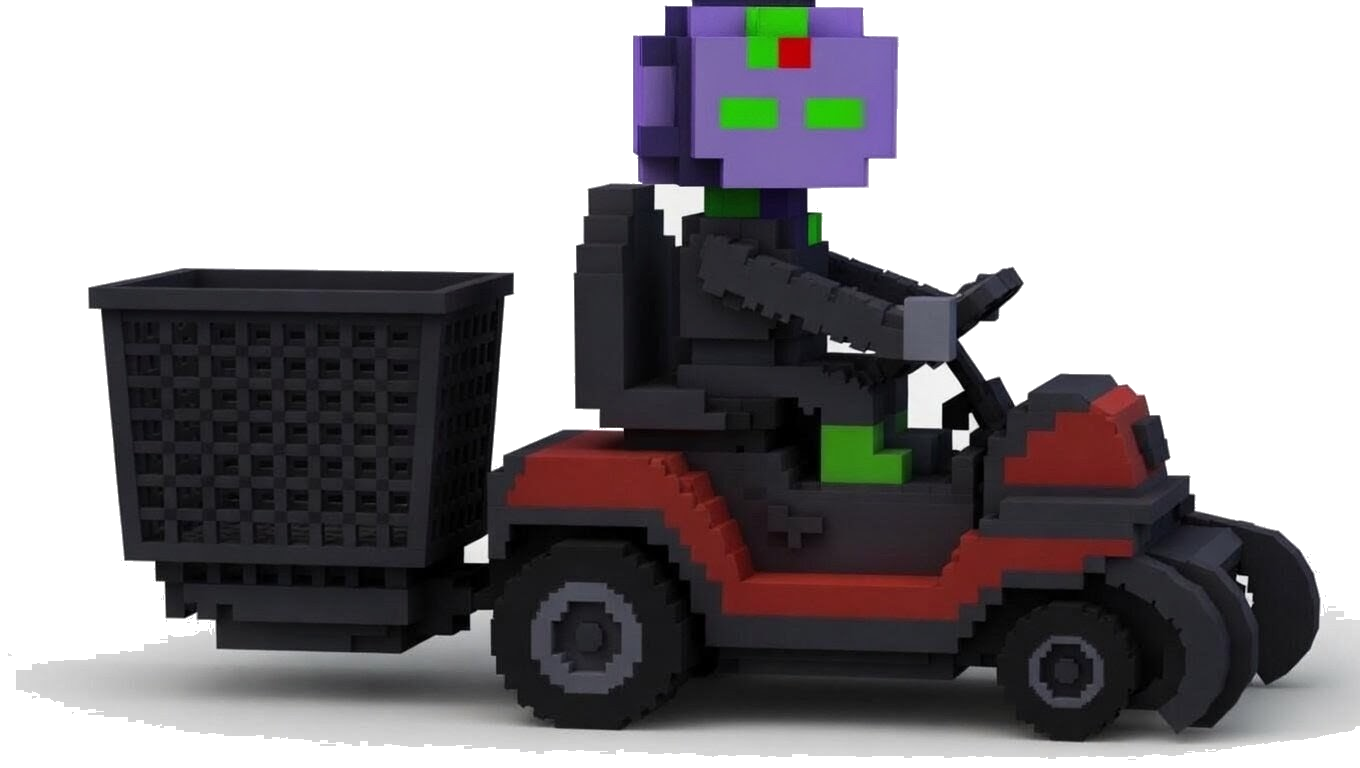
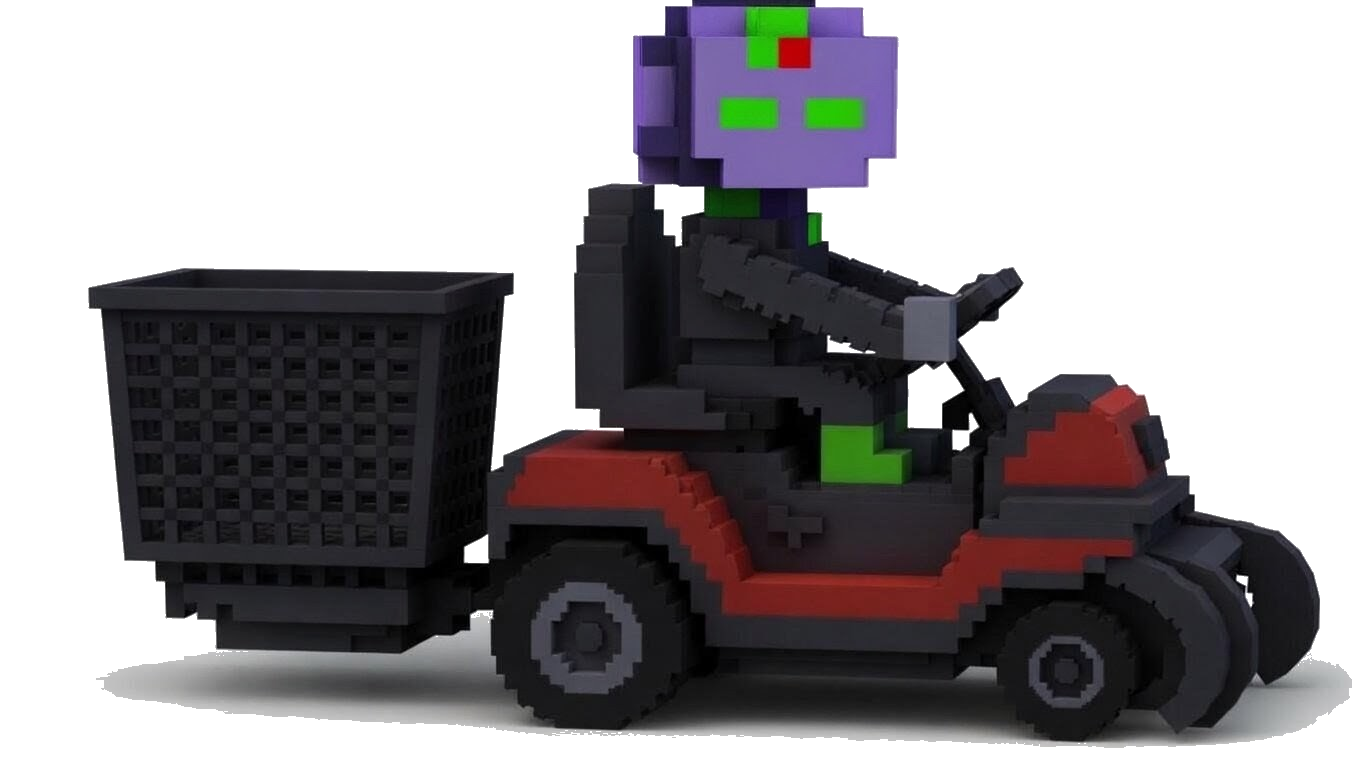
fix(v2.37 OTA): MonkeMower — kill ground-shadow oval, 15% smaller, mud-hut pile
Three issues from in-app review:

1. White elongated ground-shadow oval was bleeding through under the mower
   even after the corner flood-fill (it's a soft gradient that the fill
   threshold couldn't follow). Added a second pass that zeros any pixel
   with luma > 195 AND R≈G≈B (neutral light gray), which catches the
   oval remnants without touching the saturated mower body.

2. Mower 15% smaller — MOWER_HEIGHT 200 → 170. Width follows aspect; all
   pile/intake/crate fractions scale automatically.

3. Pile redesigned. Was a stepped pyramid where rows 1-2 were poking
   through the basket walls. Now:
   - Whole pile lifted 2 layer-heights so the base sits cleanly above
     the rim (slot.y range was 0.08-0.95, now -0.08 to 0.58).
   - Less pyramid, more "mud hut" / "dirt piled in a dump truck."
     Heavier overlap, smaller bananas (18-24 vs 24-30), 21 slots instead
     of 15, with positions deliberately scattered/jittered so individual
     bananas blur into a heap. You can no longer count them.
   - Curved mound profile rather than stepped layers — base is widest
     (7 bananas), middle layers (6, 4, 3), apex (1).

Changed region(s): [[0.0, 0.8125, 0.9265, 1.0], [0.9265, 0.7812, 1.0, 0.9688], [0.3397, 0.6875, 0.3706, 0.75]]

diff --git a/src/components/worlds/MonkeMower.tsx b/src/components/worlds/MonkeMower.tsx
@@ -41,7 +41,8 @@ const { width: SCREEN_W } = Dimensions.get("window");
 // ── Asset geometry ─────────────────────────────────────────────────────────
 // Native asset is 1360×768 (≈1.77:1). Mower faces RIGHT; basket trails on
 // the LEFT. Driving L→R, the deck on the right is the leading edge.
-const MOWER_HEIGHT = 200;
+// Display height reduced 15% per design pass — was 200, now 170.
+const MOWER_HEIGHT = 170;
 const MOWER_ASPECT = 1360 / 768;
 const MOWER_WIDTH = MOWER_HEIGHT * MOWER_ASPECT;
 // New asset has wheels at the asset's bottom edge — negligible padding.
@@ -82,40 +83,50 @@ const BOUNCE_FREQUENCY = 0.04;      // higher = more bounces per pixel of drive
 const INTAKE_IDLE_X = -100_000;
 
 // ── Crate fill positions ───────────────────────────────────────────────────
-// Tight makeshift pyramid — bananas overlap with no gaps between them, like
-// a real fruit pile mounding above the basket rim. Each row offset and one
-// banana shorter than the row below, building toward an apex.
+// Tight MOUND — think mud hut / dirt piled in the back of a dump truck.
+// NOT a clean pyramid. Bananas overlap heavily (you shouldn't be able to
+// count them), positions are scattered across the basket interior with
+// random-ish jitter, and the overall shape is a low rounded heap rather
+// than a stepped pyramid.
+//
+// All slots positioned ABOVE the basket rim — the entire pyramid was lifted
+// 2 rows from the previous version (per design pass) so the bottom of the
+// pile no longer pokes through the basket walls.
 //
 // Coords:
-//  - x: fraction of CRATE_W_PCT (0=left edge of basket interior, 1=right)
-//  - y: fraction of CRATE_H_PCT (1.0=at the rim, decreasing = higher mound)
-//  - size: 24-30 px to match in-pile banana sizes (user wanted "same size
-//    in the basket as on the screen")
-//
-// Slot ORDER matters: bottom row first (filled as visible count goes 1, 2,
-// 3, 4, 5...), stacking up to apex. Pile grows visibly with each suck.
+//  - x: fraction of CRATE_W_PCT (0=left edge of basket, 1=right)
+//  - y: fraction of CRATE_H_PCT (smaller y = higher above the rim).
+//    Negative y values render ABOVE the asset's top edge — fine, those
+//    bananas just sit higher on the mound.
+//  - size: 18-24 px — smaller than pile so the heap reads as packed
+//    debris, not individual fruit. Heavy overlap obscures count.
 const CRATE_BANANA_SLOTS = [
-  // Row 1 — 5 bananas at the rim, tightly overlapping (centers ~17% apart,
-  // size 28 → ~10px overlap between neighbors)
-  { x: 0.10, y: 0.92, rot: -10, size: 28 },
-  { x: 0.30, y: 0.95, rot:   8, size: 28 },
-  { x: 0.50, y: 0.92, rot: -14, size: 30 },
-  { x: 0.70, y: 0.95, rot:  12, size: 28 },
-  { x: 0.90, y: 0.92, rot:  -6, size: 26 },
-  // Row 2 — 4 bananas, offset between row-1 centers, ~20% lifted
-  { x: 0.20, y: 0.72, rot:  14, size: 28 },
-  { x: 0.40, y: 0.74, rot: -10, size: 28 },
-  { x: 0.60, y: 0.72, rot:  16, size: 28 },
-  { x: 0.80, y: 0.74, rot:  -8, size: 26 },
-  // Row 3 — 3 bananas
-  { x: 0.30, y: 0.50, rot: -12, size: 26 },
-  { x: 0.50, y: 0.52, rot:  10, size: 28 },
-  { x: 0.70, y: 0.50, rot: -18, size: 26 },
-  // Row 4 — 2 bananas
-  { x: 0.40, y: 0.28, rot:  14, size: 26 },
-  { x: 0.60, y: 0.30, rot: -10, size: 26 },
-  // Apex — 1 banana, slightly offset
-  { x: 0.50, y: 0.08, rot:  -8, size: 24 },
+  // Base layer (just above rim) — densely packed, lots of overlap
+  { x: 0.06, y: 0.55, rot: -12, size: 22 },
+  { x: 0.18, y: 0.58, rot:  16, size: 24 },
+  { x: 0.32, y: 0.55, rot:  -8, size: 22 },
+  { x: 0.46, y: 0.57, rot:  20, size: 24 },
+  { x: 0.60, y: 0.55, rot: -16, size: 22 },
+  { x: 0.74, y: 0.58, rot:  10, size: 22 },
+  { x: 0.88, y: 0.55, rot: -22, size: 20 },
+  // Layer 2 — slightly higher, offset between layer-1 centers
+  { x: 0.12, y: 0.40, rot:  18, size: 22 },
+  { x: 0.26, y: 0.42, rot: -10, size: 22 },
+  { x: 0.40, y: 0.40, rot:  14, size: 22 },
+  { x: 0.54, y: 0.42, rot: -18, size: 22 },
+  { x: 0.68, y: 0.40, rot:  22, size: 22 },
+  { x: 0.82, y: 0.42, rot:  -8, size: 20 },
+  // Layer 3 — narrowing
+  { x: 0.20, y: 0.25, rot: -14, size: 20 },
+  { x: 0.36, y: 0.27, rot:  20, size: 22 },
+  { x: 0.52, y: 0.25, rot: -10, size: 22 },
+  { x: 0.68, y: 0.27, rot:  16, size: 20 },
+  // Layer 4 — top of mound, rounded
+  { x: 0.32, y: 0.10, rot:  18, size: 20 },
+  { x: 0.48, y: 0.08, rot: -16, size: 22 },
+  { x: 0.62, y: 0.10, rot:  10, size: 20 },
+  // Apex
+  { x: 0.50, y: -0.08, rot: -8, size: 20 },
 ];
 const MAX_CRATE_VISIBLE = CRATE_BANANA_SLOTS.length;
 
